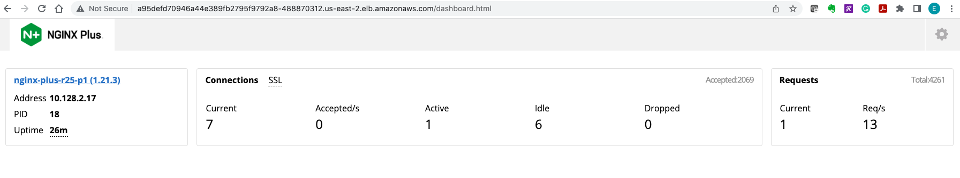
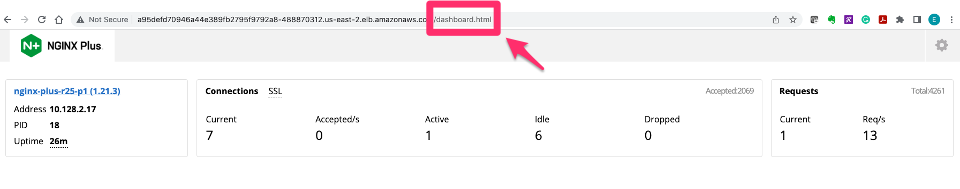
changed diagrams

diff --git a/docs/source/lab01.rst b/docs/source/lab01.rst
@@ -48,15 +48,15 @@ we also deployed the NGINX Plus Ingress Controller for Kubernetes deployment.
    
    .. code-block::
 
-      oc get pods -n nginx-ingress
+      oc get pods -n nginx-ingress -o wide
 
    |image24|
 
-2. From OpenShift Console, Click Installed Operators in the left navigation column. On the page that opens, click the NginxIngressController link in the Provided APIs column. NginxIngressController is a custom resource which the Operator uses to deploy the NGINX Plus Ingress Controller on the OpenShift cluster.
+2. From OpenShift Console, Click Operators -> Installed Operator in the left navigation column. On the page that opens, click the NginxIngressController link in the Provided APIs column. NginxIngressController is a custom resource which the Operator uses to deploy the NGINX Plus Ingress Controller on the OpenShift cluster.
 
    |image24-2|
 
-3. Validate that the NGINX Ingress Controller
+3. Validate that the NGINX Ingress Controller is running
 
    .. note:: If the NGINX Ingress Controller Pod is not in a **running** state, verify the **image:tag** value is correct from deployment manifest
 
@@ -68,7 +68,7 @@ we also deployed the NGINX Plus Ingress Controller for Kubernetes deployment.
 
    Example:
 
-   |image24|
+   |image24-3|
 
 4. Expose the NGINX Ingress Controller Dashboard
 
@@ -164,6 +164,7 @@ we also deployed the NGINX Plus Ingress Controller for Kubernetes deployment.
 .. |image23| image:: images/image23.png
 .. |image24| image:: images/image24.png
 .. |image24-2| image:: images/image24-2.png
+.. |image24-3| image:: images/image24-3.png
 .. |image26| image:: images/image26.png
 .. |image27| image:: images/image27.png
 .. |image28| image:: images/image28.png
